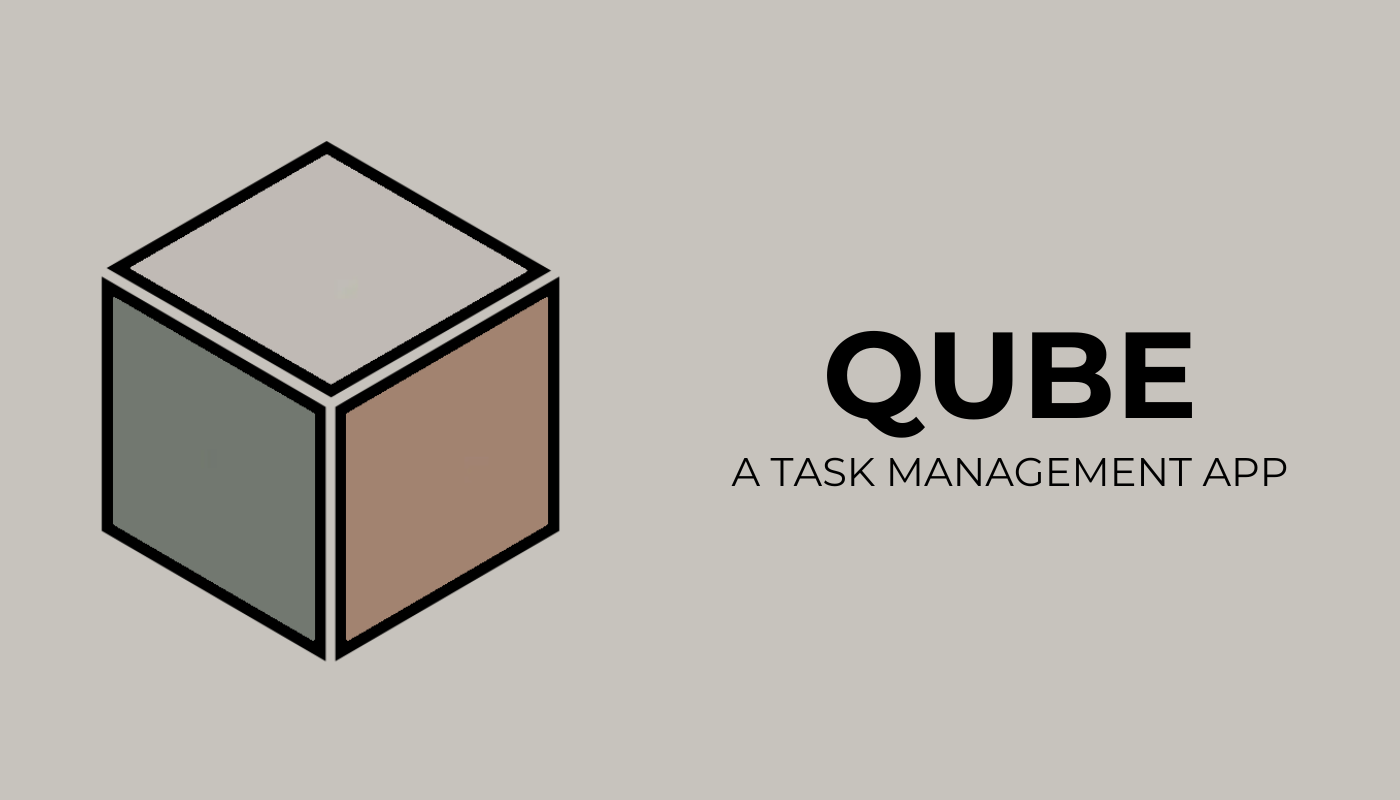
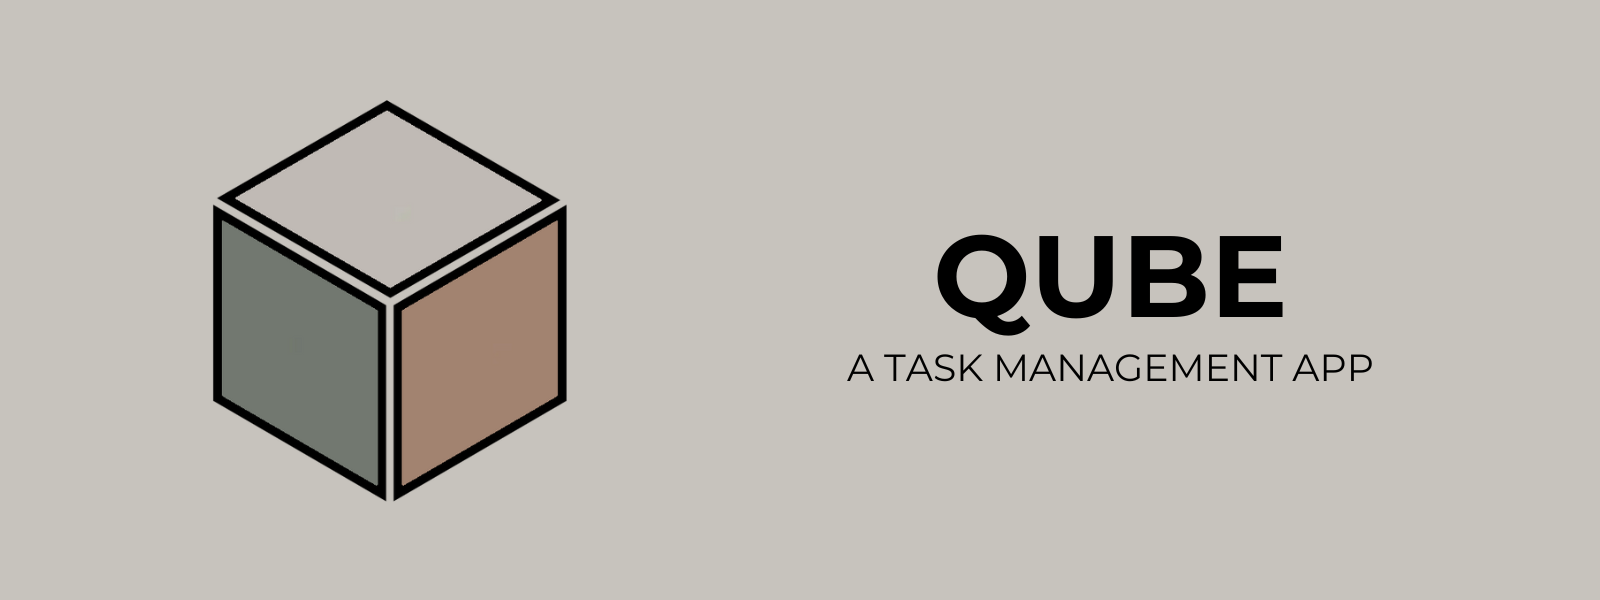
Refactor image size in README.md

Changed region(s): [[0.0614, 0.15, 0.3993, 0.84], [0.5221, 0.39, 0.9214, 0.66]]

diff --git a/README.md b/README.md
@@ -1,6 +1,6 @@
 <h1 align="center">QUBE</h1>
 <div align="center">
-  <img src="Docs/images/QUBE_banner.png" width="80%" alt="Baner">
+  <img src="Docs/images/QUBE_banner.png" width="100%" alt="Baner">
 </div>
 
 ## Wprowadzenie
